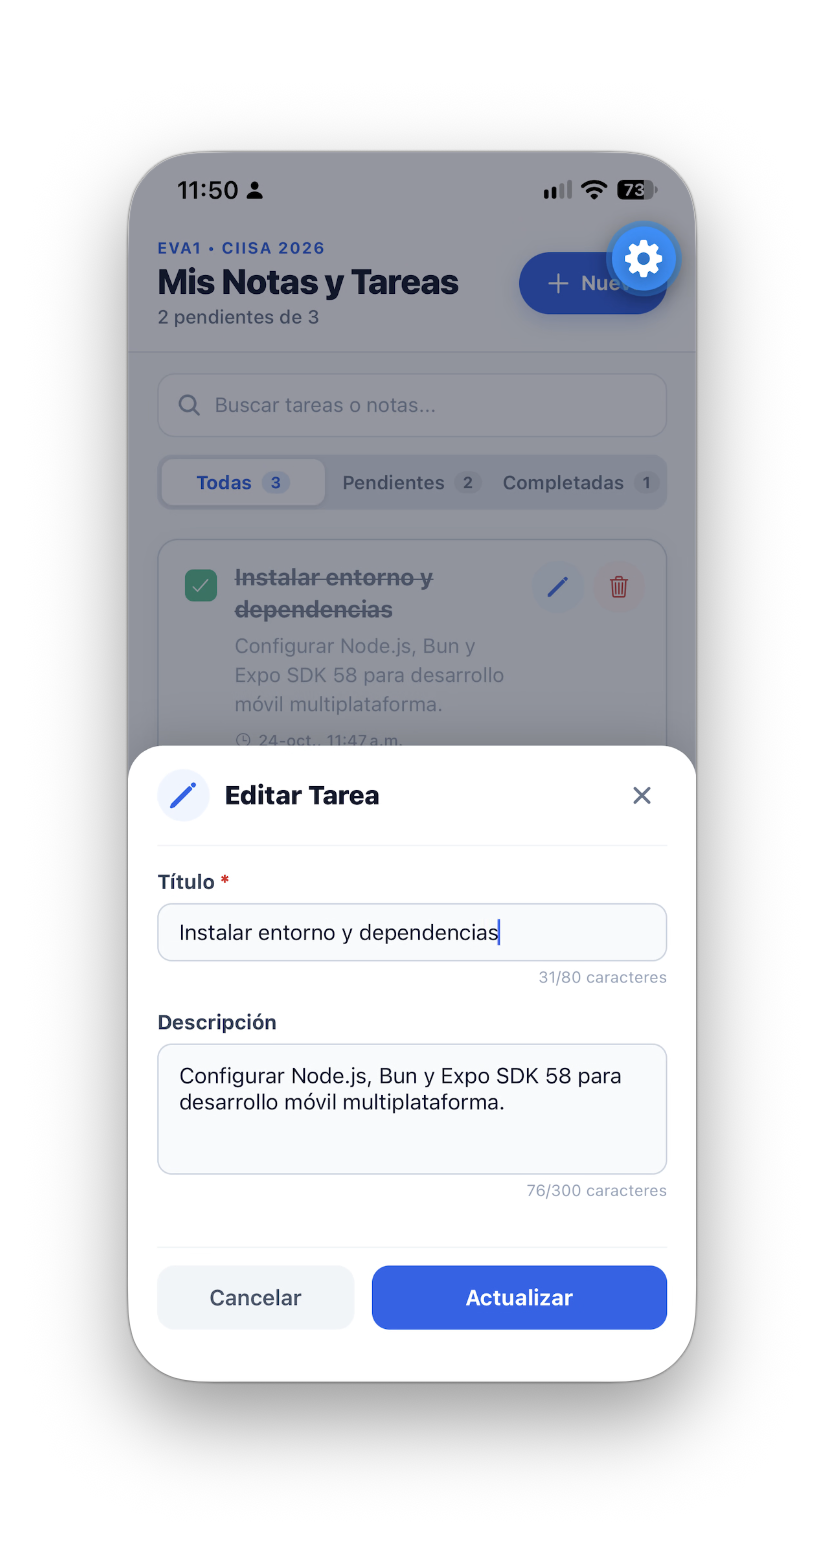
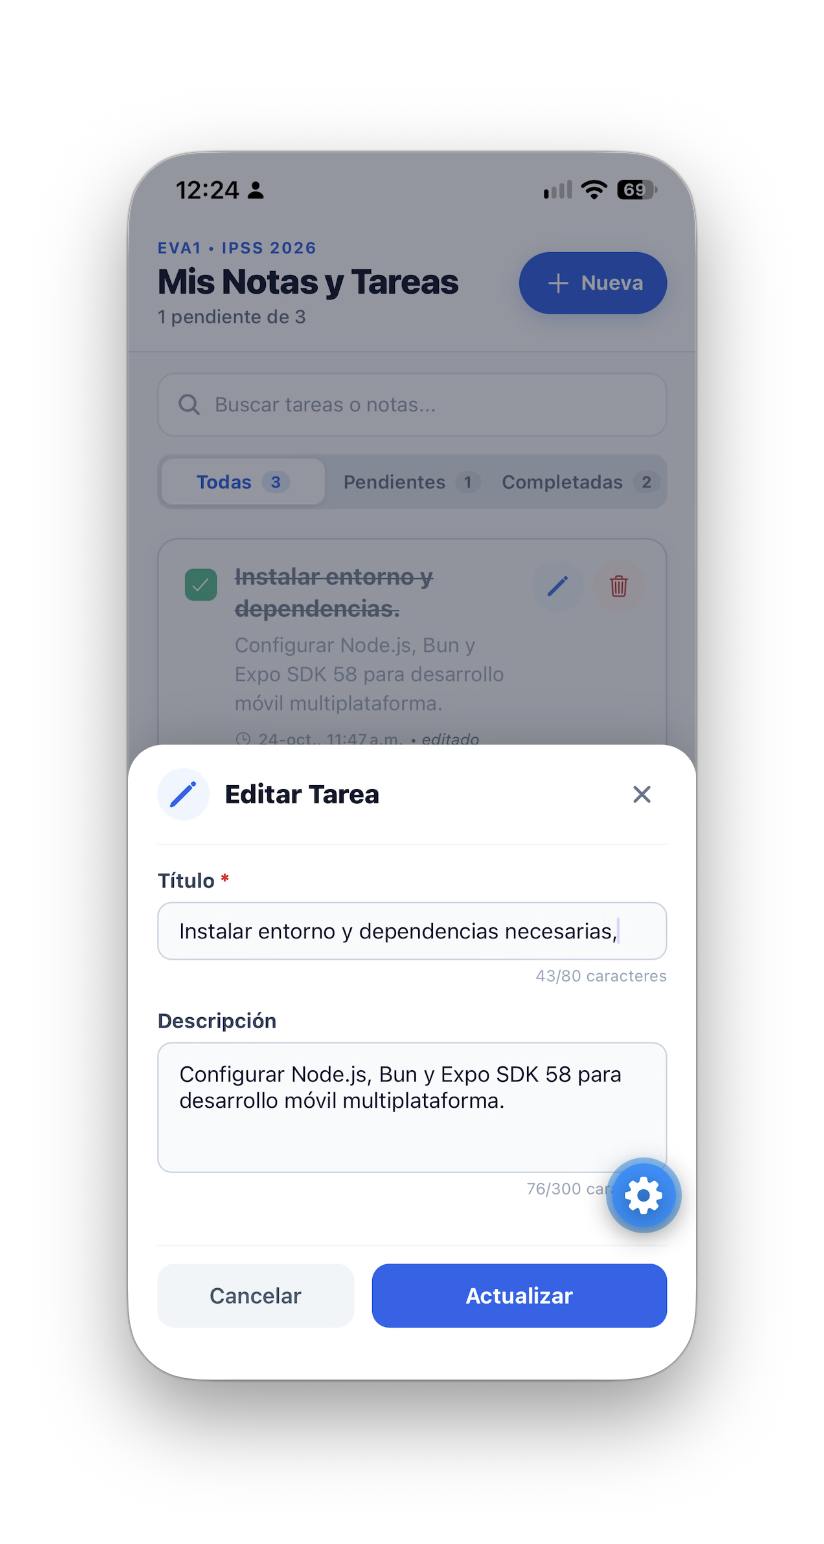
docs: update mobile screenshots with IPSS branding and adjust preview layout

diff --git a/README.md b/README.md
@@ -324,9 +324,9 @@ A continuación se documenta el ciclo de desarrollo completo mediante el registr
 La aplicación fue desplegada en un iPhone físico enlazado mediante la función de duplicación en macOS:
 
 <p align="center">
-  <img src="Capturas/07.png" alt="Duplicación de iPhone ejecutando la aplicación" width="800" />
+  <img src="Capturas/07.png" alt="Pantalla principal de la aplicación en iPhone" width="280" />
   <br/>
-  <em>Captura 07: Aplicación To-Do ejecutándose en tiempo real en iPhone mediante Expo Go SDK 58.</em>
+  <em>Captura 07: Aplicación To-Do ejecutándose en tiempo real en iPhone mediante Expo Go SDK 58 (Cabecera oficial IPSS 2026).</em>
 </p>
 
 ---
